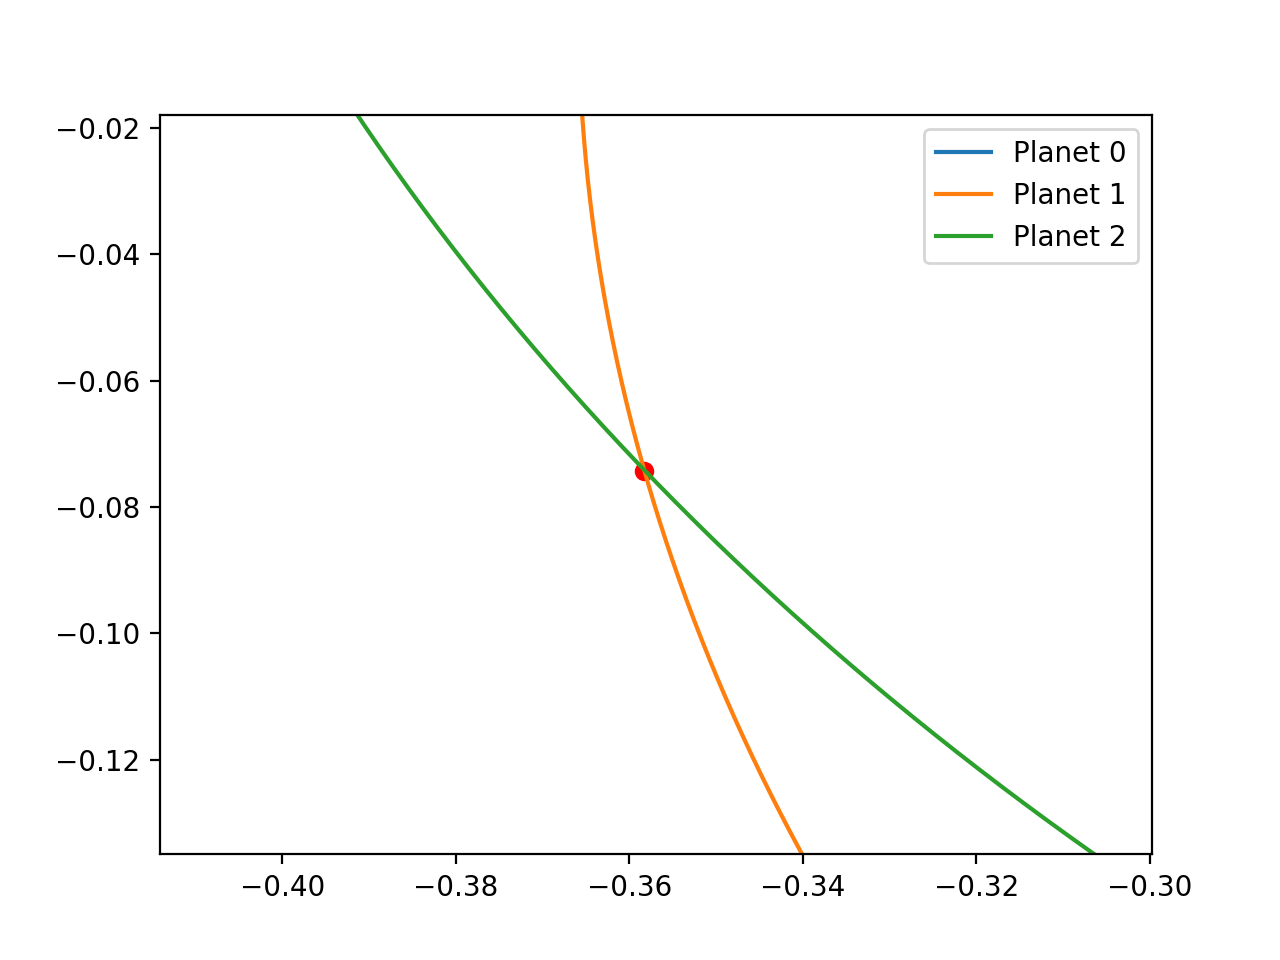
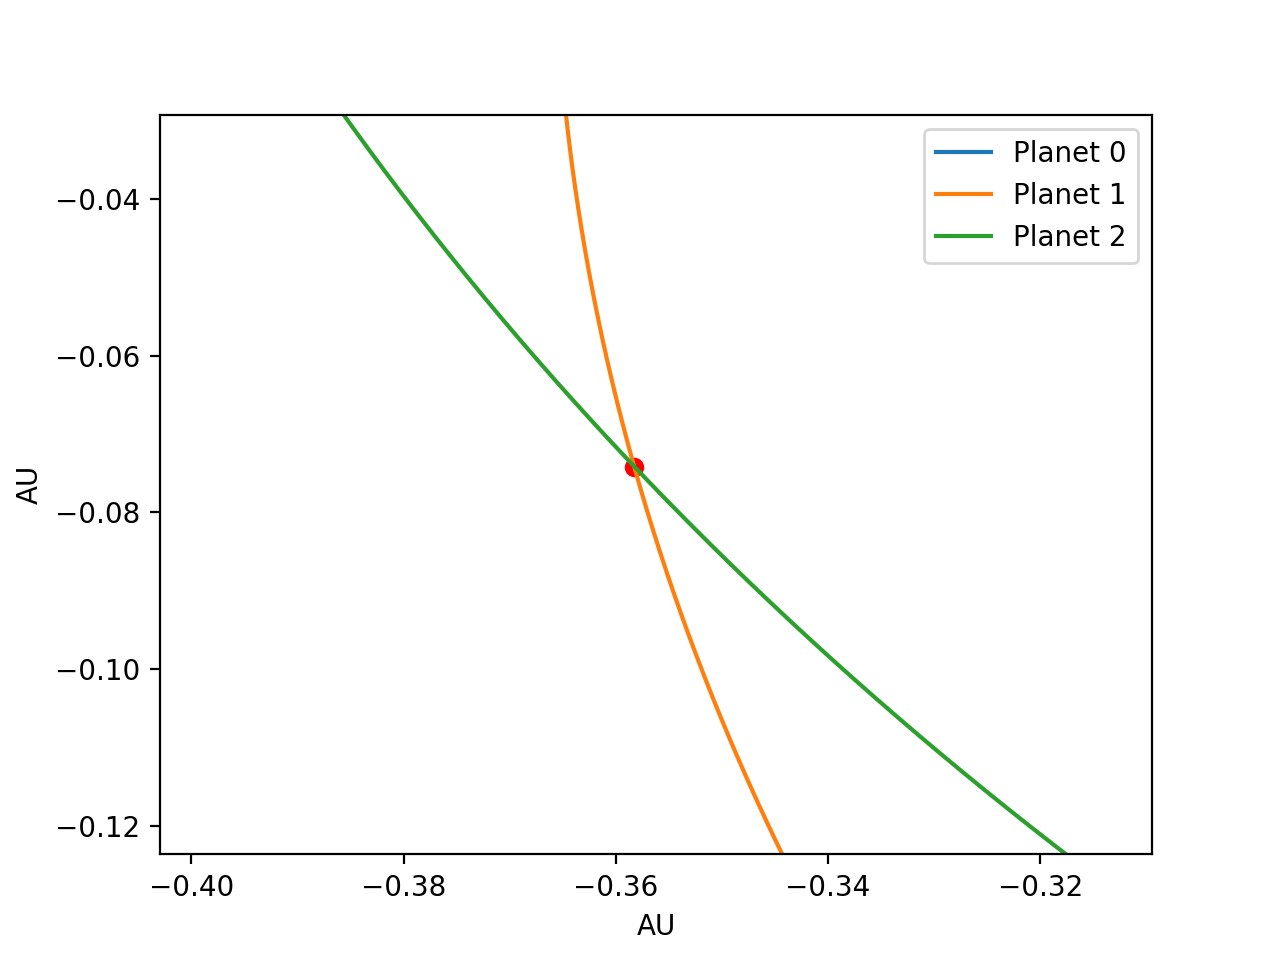
#40 Added units to plots and updated pictures

diff --git a/blog/kode/part4/trilateration.py b/blog/kode/part4/trilateration.py
@@ -238,6 +238,8 @@ class trilateration:
                 centroid = [x[neighbours[neighbour]].sum()/3,y[neighbours[neighbour]].sum()/3]
         plt.scatter(candidates[:,0],candidates[:,1],c='r')
         plt.scatter(centroid[0],centroid[1],c='g')
+        plt.xlabel('AU')
+        plt.ylabel('AU')
         plt.legend()
         plt.show()
 
